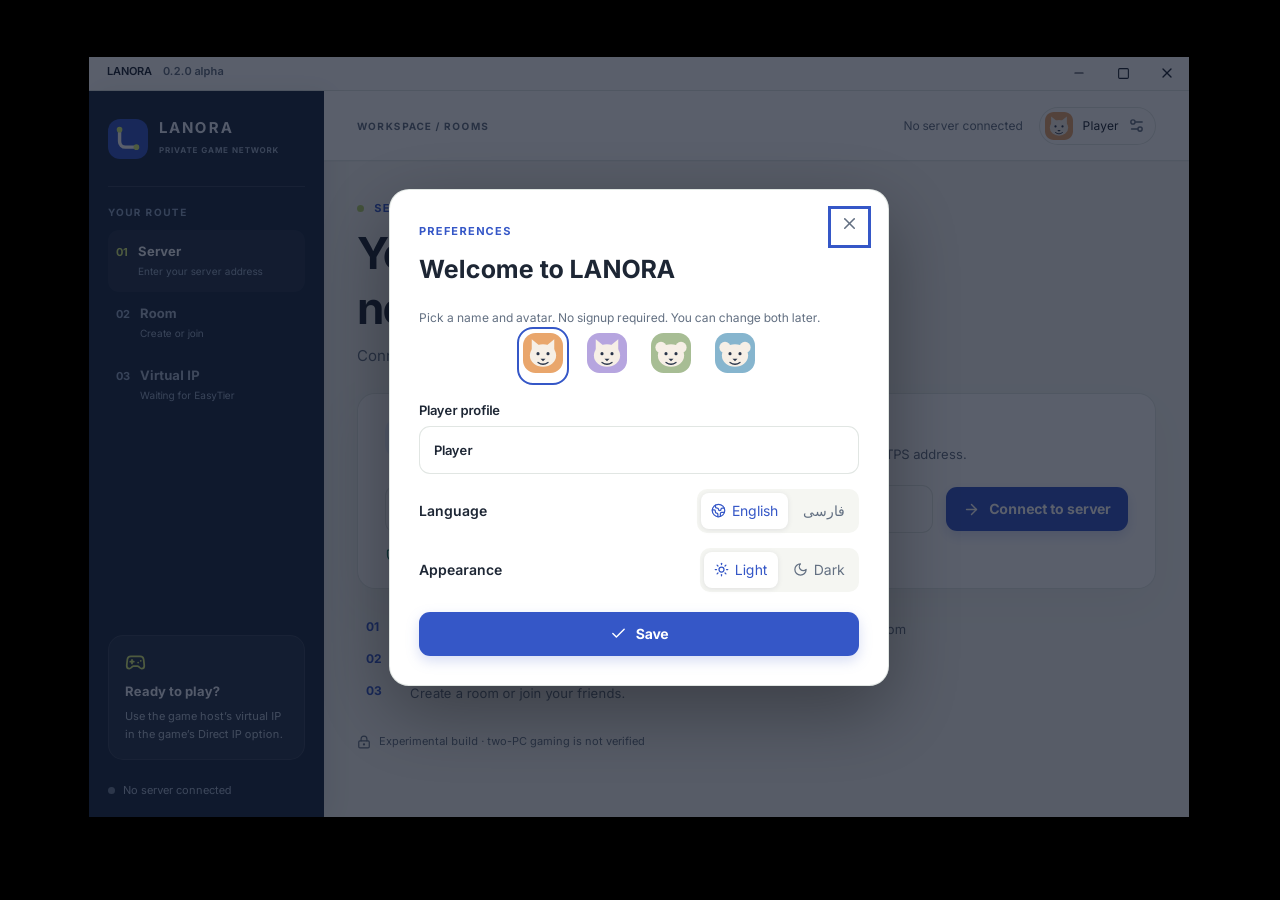
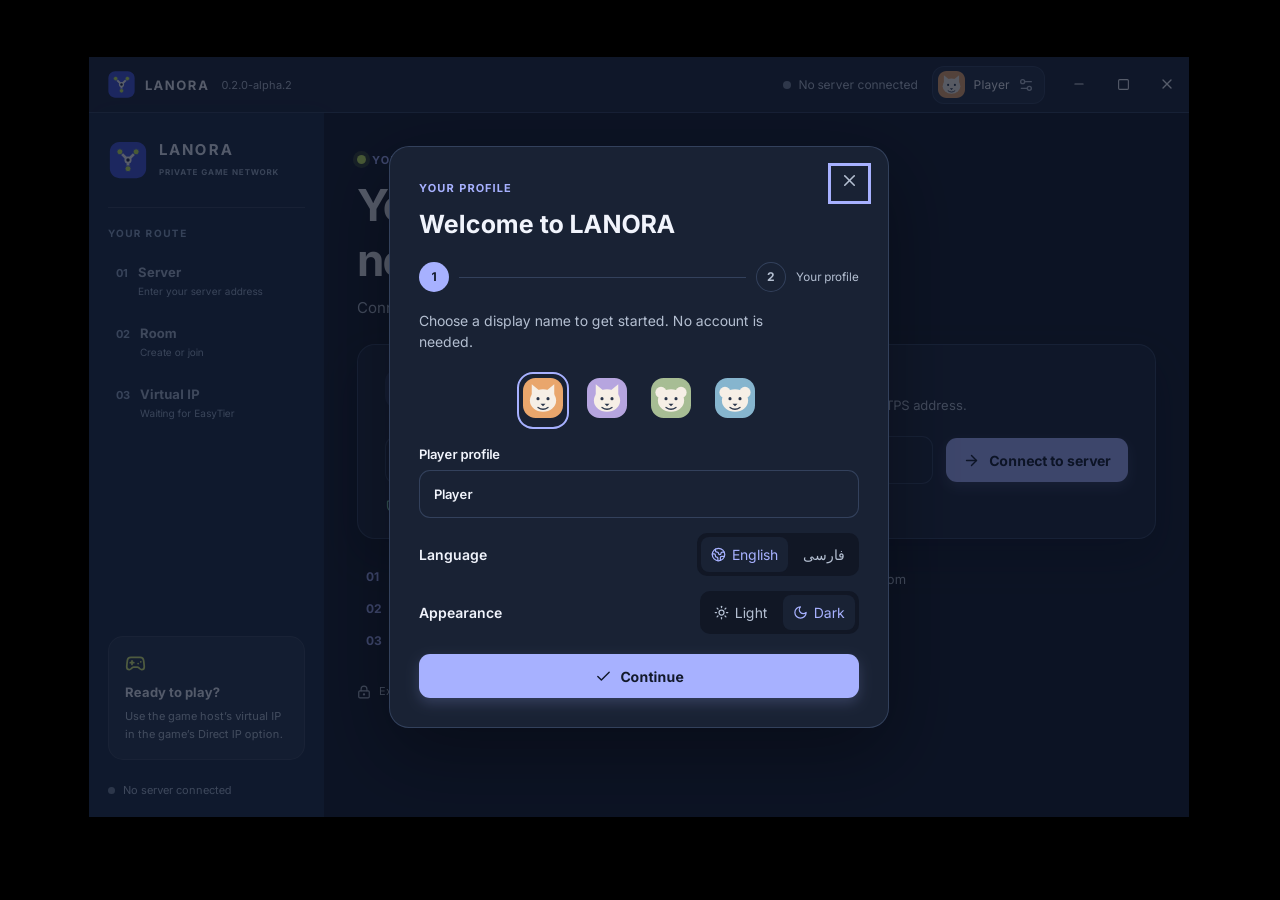
docs: record alpha2 validation and native screenshot

diff --git a/docs/AUDIT_0.2.0.md b/docs/AUDIT_0.2.0.md
@@ -39,11 +39,19 @@ The EasyTier CLI/configuration was checked against the pinned [v2.6.4 source](ht
 - Add transparent LANORA PNG/SVG/ICO and Tauri icon sizes, branded NSIS header/sidebar art, Farsi and English installer language selection, current-user install mode and the MIT license file. The workflow also emits SHA-256 sidecars. Windows Build CI must confirm the installer compiles and installs with these settings.
 - Record layout, typography, color, feedback and accessibility choices in `docs/DESIGN_SYSTEM.md`.
 
-## Previous verified candidate tests
+## Alpha 2 validation
 
-Before the `0.2.0-alpha.2` security and installer changes, commit `c120b467af9ad36502ab667a8dbbcdd3684339fa` passed [desktop workflow 43946935337](https://github.com/kavianpcx/LANORA/actions/runs/43946935337) and [server/API CI 43946935255](https://github.com/kavianpcx/LANORA/actions/runs/43946935255). Windows built, silently installed, launched and normally closed the NSIS package. Ubuntu 24.04 built and installed the `.deb`, opened the installed native UI, tested fullscreen restore/close and captured the committed screenshot. The Linux namespace test sent real TCP and UDP payloads between different EasyTier adapter IPs through the self-hosted relay, including with the API stopped and after a local underlay link down/up. Docker checks passed with SQLite data surviving restart.
+The tested source is commit `a30df623c1fb4042285f24bf3168c7c6258a709d` on the review branch. Both required workflows passed on that same source commit: [CI run 43959957097](https://github.com/kavianpcx/LANORA/actions/runs/43959957097) and [Desktop validation run 43959957135](https://github.com/kavianpcx/LANORA/actions/runs/43959957135).
 
-That is Linux namespace evidence, not a two-computer internet test. Alpha 2 needs its own successful Actions runs because it changes the membership response, NSIS assets and package metadata. The exact alpha 2 run links and results belong here once those runs finish.
+An earlier candidate run failed the repository check after the installer sidebar bitmap was truncated during upload; the next commit restored and verified the complete bitmap. A separate early cleanup failure was fixed by supplying harmless Compose variables to the always-run cleanup step. Neither failure is from the tested `a30df623` source.
+
+- Go API tests, including race detection and authorization regressions, passed. Repository checks, server command tests, fresh Docker deployment, restart and SQLite persistence passed in CI.
+- Frontend regression tests and Rust native tests passed on Windows and Ubuntu runners.
+- Windows Server 2025 CI built the branded NSIS installer, installed it silently, checked that the bundled EasyTier binary exists and reports its version, launched LANORA, and closed the app normally. This is an installer smoke test, not a clean Windows 10/11 hardware or virtual-adapter test.
+- Ubuntu 24.04 CI built and installed the `.deb`, checked its EasyTier network capability, launched the installed application, exercised fullscreen restore and close, and captured the screenshot used in the README.
+- The Linux namespace test used the real pinned EasyTier v2.6.4 binary and real TCP/UDP sockets between different virtual-adapter IPs through the self-hosted relay. It also exercised traffic while the API was stopped and after a local underlay link was taken down and restored.
+
+This is useful local integration evidence, not proof of two-computer internet gaming. The CI source is the tested alpha candidate; any later source commit requires a new matching build before its binaries can be released.
 
 ## Not verified and remaining risks
 
@@ -57,4 +65,4 @@ These are alpha limitations. Do not describe the product as stable or universall
 
 ## Release state
 
-Target version: `0.2.0-alpha.2` across npm, Cargo and Tauri. Publish only packages from a successful desktop workflow run for the same source commit. Keep the GitHub release marked prerelease; do not replace or move an existing tag. Stable release remains blocked on the real Windows and independent-network tests above.
+Version: `0.2.0-alpha.2` is synchronized across npm, Cargo and Tauri. Windows and Linux packages may be published only from the matching successful desktop workflow run. Keep the GitHub release marked prerelease. Stable release remains blocked on the real Windows adapter/firewall and independent-network/game tests above.

diff --git a/tests/NETWORK_TEST_MATRIX.md b/tests/NETWORK_TEST_MATRIX.md
@@ -13,10 +13,10 @@ Results are scoped to their environment. A namespace test uses real EasyTier, re
 | Control API offline while tunnel active | Passed in Linux namespaces | Socket payloads after stopping the API process |
 | Underlay disconnect/reconnect | Passed in Linux namespaces | Linux namespace link down/up; not WAN loss on Windows |
 | Docker fresh installation, restart and SQLite persistence | Passed in CI | `tests/compose_smoke.sh`; local HTTPS proxy process, no public DNS/TLS verification |
-| Native EXE and DEB builds; Rust regressions | Passed on the earlier candidate; alpha.2 rerun pending | Previous CI artifacts are not evidence for the new installer artwork or package metadata |
-| Install/open/close actual desktop packages | See final audit results | Separate CI steps, never inferred from build success |
+| Alpha.2 Windows x64 EXE build and installer smoke test | Passed | [Desktop CI run 43959957135](https://github.com/kavianpcx/LANORA/actions/runs/43959957135): built NSIS, installed silently, checked bundled EasyTier version, launched and closed the installed app on Windows Server 2025 CI |
+| Alpha.2 Ubuntu 24.04 x64 DEB build and install smoke test | Passed | [Desktop CI run 43959957135](https://github.com/kavianpcx/LANORA/actions/runs/43959957135): built and installed package, checked packaged EasyTier capability, launched app and exercised fullscreen restore/close in Xvfb |
 | Windows firewall, adapter permissions and driver cleanup | Not verified | Requires clean Windows 10/11 PCs/VMs and real adapter tests |
 | LAN game Direct IP, broadcast/multicast discovery | Not verified | Record each tested game/version and topology |
 | Fullscreen, maximize/restore, dragging and RTL on physical desktops | Not verified | Custom controls implemented; needs interactive cross-platform validation |
 
-See [audit](../docs/AUDIT_0.2.0.md) for exact run links, earlier harness failures and final results. No test claims universal game compatibility.
+See [audit](../docs/AUDIT_0.2.0.md) for the matching source commit, run links, and limits. No test claims universal game compatibility.

diff --git a/README.fa.md b/README.fa.md
@@ -7,6 +7,9 @@
 
 **نسخهٔ آزمایشی:** [دانلود نسخهٔ `0.2.0-alpha.2`](https://github.com/kavianpcx/LANORA/releases/tag/v0.2.0-alpha.2). دسترسی به API، عضویت روم، اجرای EasyTier، آیپی گزارششده و ارتباط واقعی با دوستتان مراحل جدا هستند. داشتن آیپی بهتنهایی اتصال به بازیکن دیگر را ثابت نمیکند. آزمایش بازی ویندوز روی دو اینترنت متفاوت هنوز **تأیید نشده**. [گزارش بررسی و تستها](docs/AUDIT_0.2.0.md) و [راهنمای طراحی رابط دسکتاپ](docs/DESIGN_SYSTEM.md).
 
+<p align="center"><img src="docs/screenshots/linux-first-launch.png" alt="صفحهٔ انتخاب نام و آواتار در برنامهٔ نصبشدهٔ LANORA" width="900"></p>
+<p align="center"><sub>تصویر واقعی از اجرای بستهٔ نصبشدهٔ Ubuntu در GitHub Actions، نه پیشنمایش وب.</sub></p>
+
 ## ۱. صاحب VPS: سرور را راهاندازی کنید
 
 ابتدا [Docker Engine و Compose](https://docs.docker.com/engine/install/)، ابزار Git و OpenSSL را نصب کنید. رکورد DNS دامنه را به VPS وصل کنید. پورتهای **TCP 80/443 و TCP/UDP 11010** باید در فایروال VPS باز باشند. در ترمینال SSH بنویسید:

diff --git a/README.md b/README.md
@@ -9,6 +9,9 @@ Play a LAN game with friends who are somewhere else. One friend runs the server 
 
 [![CI](https://github.com/kavianpcx/LANORA/actions/workflows/ci.yml/badge.svg?branch=main)](https://github.com/kavianpcx/LANORA/actions/workflows/ci.yml) [![Desktop builds](https://github.com/kavianpcx/LANORA/actions/workflows/windows.yml/badge.svg?branch=main)](https://github.com/kavianpcx/LANORA/actions/workflows/windows.yml) [![MIT](https://img.shields.io/badge/license-MIT-4355DB)](LICENSE)
 
+<p align="center"><img src="docs/screenshots/linux-first-launch.png" alt="LANORA first-launch profile setup, captured from the installed desktop package" width="900"></p>
+<p align="center"><sub>Real screenshot from the installed Ubuntu package in GitHub Actions, not a web mockup.</sub></p>
+
 ## 1. Server owner: run these commands on your VPS
 
 First install [Docker Engine with Compose](https://docs.docker.com/engine/install/). You also need Git and OpenSSL. Point a domain's DNS record at the VPS. Allow inbound **TCP 80/443 and TCP/UDP 11010** in your VPS firewall.
